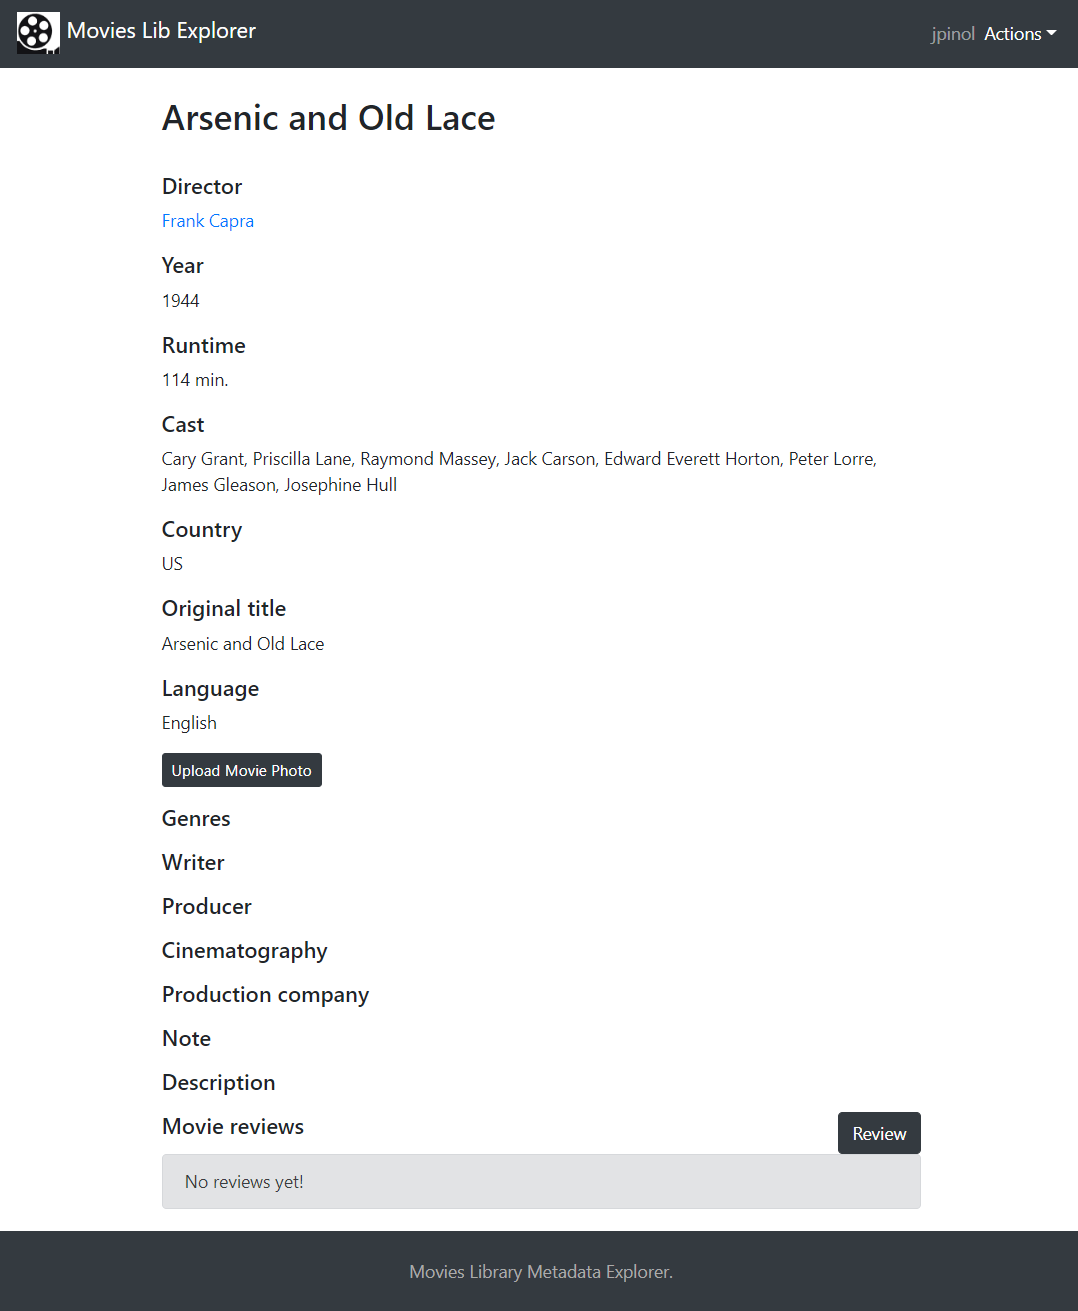
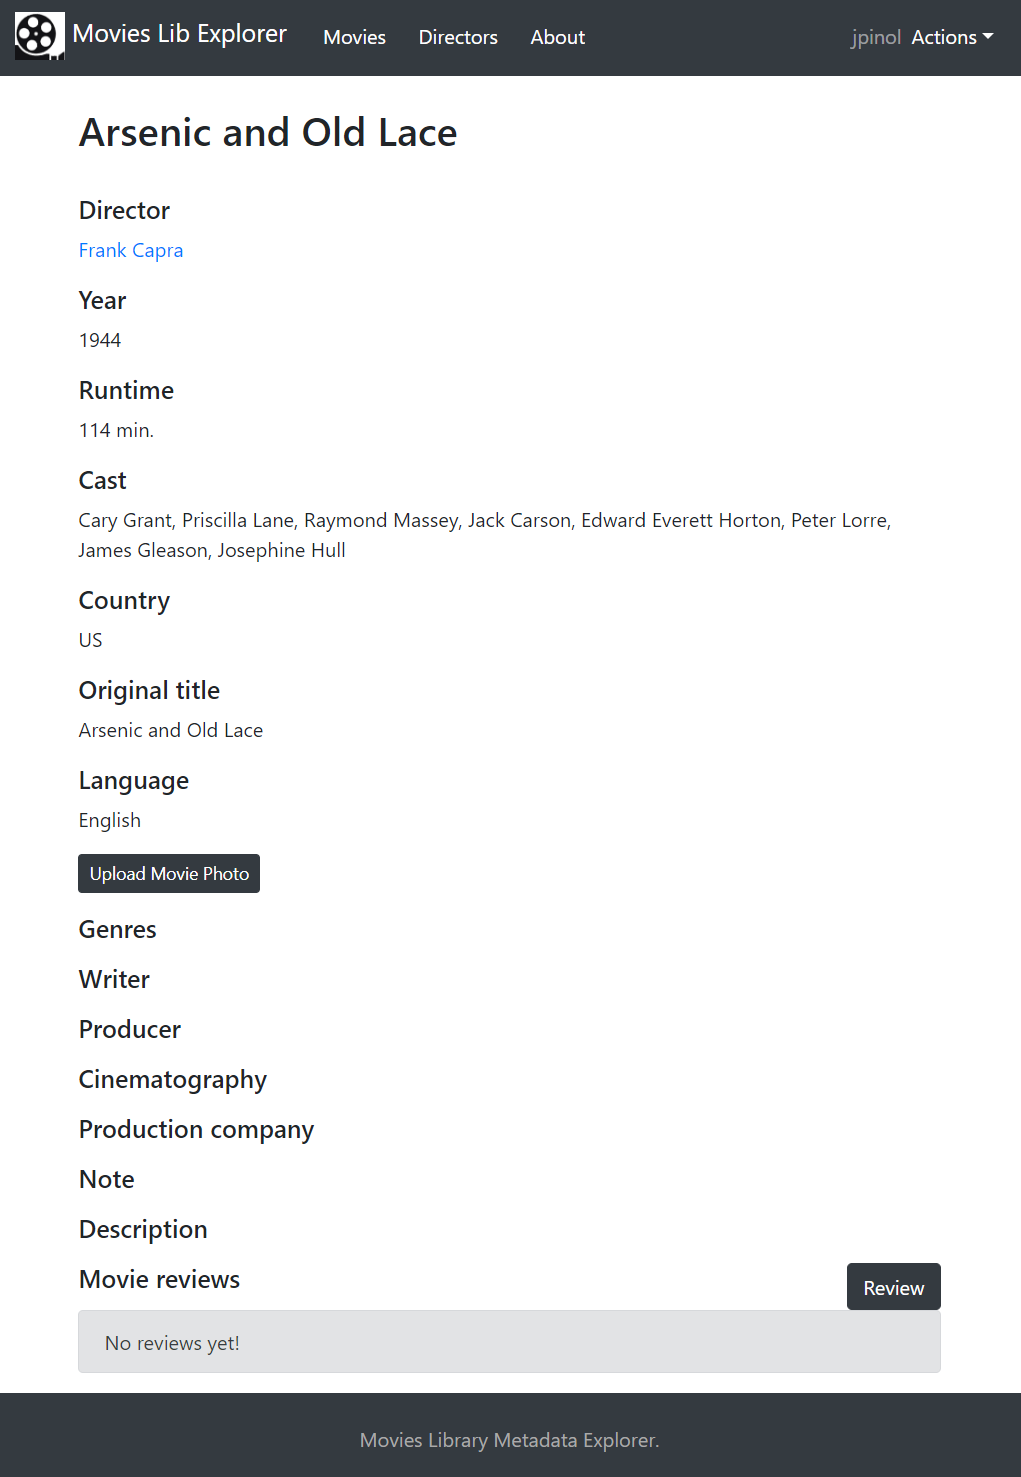
[IMP] Improve navigation bar by putting some important buttons on it. Also, improve screenshots to show this change.

diff --git a/templates/home/base.html b/templates/home/base.html
@@ -27,6 +27,10 @@
         <span class="navbar-toggler-icon"></span>
     </button>
 
+    <a class="btn btn-dark" href="{% url 'movie_list' %}">Movies</a>
+    <a class="btn btn-dark" href="{% url 'director_list' %}">Directors</a>
+    <a class="btn btn-dark" href="{% url 'about' %}">About</a>
+
     <div class="collapse navbar-collapse" id="main_nav_bar">
         <ul class="navbar-nav ml-auto">
             {% if request.user.is_authenticated %}
